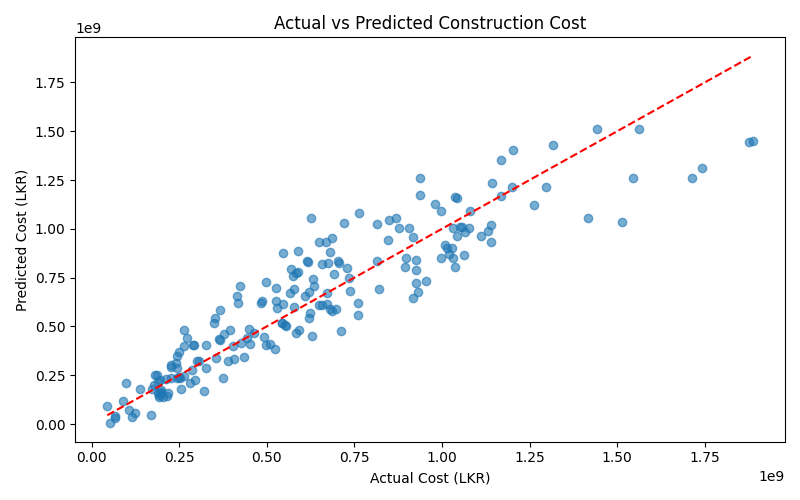
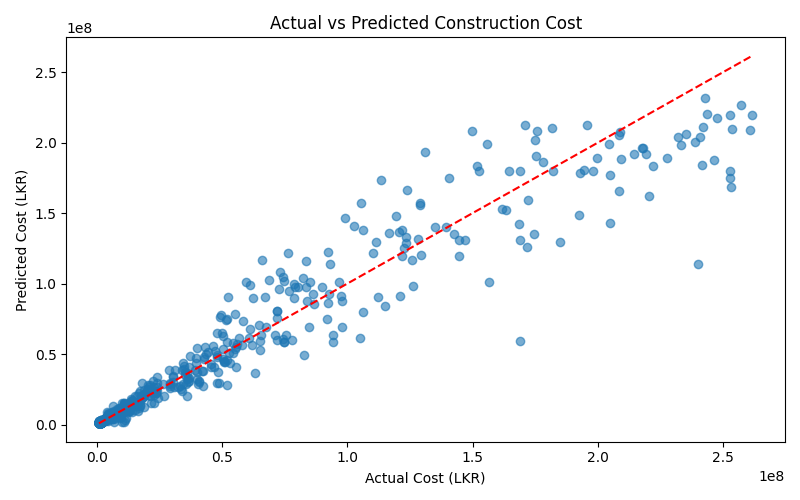
update the cross origin options

diff --git a/train_model.py b/train_model.py
@@ -2,129 +2,134 @@ import pandas as pd
 import numpy as np
 import matplotlib.pyplot as plt
 import seaborn as sns
+from pathlib import Path
 
-# Load your dataset (CSV, Excel, or DB export)
-df = pd.read_csv("construction_data.csv")
+DATASET_CANDIDATES = [
+    Path('construction_data_balanced_v2.csv'),
+    Path('construction_data_balanced.csv'),
+    Path('construction_data_augmented.csv'),
+    Path('construction_data.csv'),
+]
 
-# Explore
-print(df.shape)         # Rows and columns
-print(df.head())        # First 5 rows
-print(df.info())        # Data types
-print(df.describe())    # Statistical summary
-print(df.isnull().sum()) # Check for missing values
+dataset_path = next((candidate for candidate in DATASET_CANDIDATES if candidate.exists()), None)
+if dataset_path is None:
+    raise FileNotFoundError('No construction dataset file was found for training.')
 
-# Drop duplicates
+print(f'Using dataset: {dataset_path.name}')
+df = pd.read_csv(dataset_path)
+
+print(df.shape)
+print(df.head())
+print(df.info())
+print(df.describe())
+print(df.isnull().sum())
+
 df.drop_duplicates(inplace=True)
 
 df['total_area_sqft'] = df['total_area_sqft'].fillna(df['total_area_sqft'].median())
 df['project_type'] = df['project_type'].fillna(df['project_type'].mode()[0])
 
-# Remove outliers using IQR method
 Q1 = df['total_cost'].quantile(0.25)
 Q3 = df['total_cost'].quantile(0.75)
 IQR = Q3 - Q1
-df = df[(df['total_cost'] >= Q1 - 1.5*IQR) & (df['total_cost'] <= Q3 + 1.5*IQR)]
+df = df[(df['total_cost'] >= Q1 - 1.5 * IQR) & (df['total_cost'] <= Q3 + 1.5 * IQR)]
 
-from sklearn.preprocessing import LabelEncoder, StandardScaler
 from sklearn.compose import ColumnTransformer
 from sklearn.pipeline import Pipeline
-from sklearn.preprocessing import OneHotEncoder
+from sklearn.preprocessing import OneHotEncoder, StandardScaler
 
-# Define feature columns
 categorical_features = ['project_type', 'location_zone', 'material_grade', 'soil_type']
-numerical_features = ['total_area_sqft', 'num_floors', 'labor_cost_per_day',
-                      'project_duration_days', 'num_workers']
+numerical_features = [
+    'total_area_sqft',
+    'num_floors',
+    'labor_cost_per_day',
+    'project_duration_days',
+    'num_workers',
+]
 
-# Build preprocessing pipeline
 preprocessor = ColumnTransformer(transformers=[
     ('num', StandardScaler(), numerical_features),
-    ('cat', OneHotEncoder(handle_unknown='ignore'), categorical_features)
+    ('cat', OneHotEncoder(handle_unknown='ignore'), categorical_features),
 ])
 
-from sklearn.model_selection import train_test_split
+from sklearn.model_selection import GridSearchCV, train_test_split
 
-X = df.drop('total_cost', axis=1)   # Features
-y = df['total_cost']                 # Target (cost to predict)
+X = df.drop('total_cost', axis=1)
+y = df['total_cost']
 
 X_train, X_test, y_train, y_test = train_test_split(
     X, y, test_size=0.2, random_state=42
 )
 
-print(f"Training samples: {X_train.shape[0]}")
-print(f"Testing samples:  {X_test.shape[0]}")
+print(f'Training samples: {X_train.shape[0]}')
+print(f'Testing samples:  {X_test.shape[0]}')
 
+from sklearn.ensemble import GradientBoostingRegressor, RandomForestRegressor
 from sklearn.linear_model import LinearRegression
-from sklearn.ensemble import RandomForestRegressor, GradientBoostingRegressor
-from sklearn.metrics import mean_absolute_error, r2_score, mean_squared_error
-from sklearn.pipeline import Pipeline
+from sklearn.metrics import mean_absolute_error, mean_squared_error, r2_score
 
 models = {
-    "Linear Regression":       LinearRegression(),
-    "Random Forest":           RandomForestRegressor(n_estimators=100, random_state=42),
-    "Gradient Boosting":       GradientBoostingRegressor(n_estimators=100, random_state=42)
+    'Linear Regression': LinearRegression(),
+    'Random Forest': RandomForestRegressor(n_estimators=100, random_state=42),
+    'Gradient Boosting': GradientBoostingRegressor(n_estimators=100, random_state=42),
 }
 
-results = {}
-
 for name, model in models.items():
-    # Build full pipeline (preprocessing + model)
     pipeline = Pipeline(steps=[
         ('preprocessor', preprocessor),
-        ('model', model)
+        ('model', model),
     ])
-    
+
     pipeline.fit(X_train, y_train)
     y_pred = pipeline.predict(X_test)
-    
+
     mae = mean_absolute_error(y_test, y_pred)
-    r2  = r2_score(y_test, y_pred)
-    
-    results[name] = {"MAE": mae, "R2": r2, "pipeline": pipeline}
-    print(f"{name:25s} → MAE: ${mae:,.2f}  |  R²: {r2:.4f}")
+    r2 = r2_score(y_test, y_pred)
+    print(f'{name:25s} -> MAE: LKR {mae:,.2f} | R2: {r2:.4f}')
 
-    from sklearn.model_selection import GridSearchCV
-
-from sklearn.model_selection import GridSearchCV
-
-# ✅ Tune Gradient Boosting (best performer)
 param_grid = {
-    'model__n_estimators':    [100, 200],
-    'model__max_depth':       [3, 5, 7],
-    'model__learning_rate':   [0.05, 0.1, 0.2],
-    'model__min_samples_split': [2, 5]
+    'model__n_estimators': [100, 200],
+    'model__max_depth': [3, 5, 7],
+    'model__learning_rate': [0.05, 0.1, 0.2],
+    'model__min_samples_split': [2, 5],
 }
 
 best_pipeline = Pipeline(steps=[
     ('preprocessor', preprocessor),
-    ('model', GradientBoostingRegressor(random_state=42))  # ✅ Changed
+    ('model', GradientBoostingRegressor(random_state=42)),
 ])
 
-grid_search = GridSearchCV(best_pipeline, param_grid, cv=5,
-                           scoring='neg_mean_absolute_error', n_jobs=-1)
+grid_search = GridSearchCV(
+    best_pipeline,
+    param_grid,
+    cv=5,
+    scoring='neg_mean_absolute_error',
+    n_jobs=-1,
+)
 grid_search.fit(X_train, y_train)
 
-print("Best params:", grid_search.best_params_)
+print('Best params:', grid_search.best_params_)
 final_model = grid_search.best_estimator_
 
-# Evaluate
 y_pred_final = final_model.predict(X_test)
+y_pred_final = np.maximum(y_pred_final, 0)
 
-print(f"MAE  : LKR {mean_absolute_error(y_test, y_pred_final):,.2f}")
-print(f"RMSE : LKR {np.sqrt(mean_squared_error(y_test, y_pred_final)):,.2f}")
-print(f"R²   : {r2_score(y_test, y_pred_final):.4f}")
+print(f'MAE  : LKR {mean_absolute_error(y_test, y_pred_final):,.2f}')
+print(f'RMSE : LKR {np.sqrt(mean_squared_error(y_test, y_pred_final)):,.2f}')
+print(f'R2   : {r2_score(y_test, y_pred_final):.4f}')
 
-# Visualize predictions vs actuals
 plt.figure(figsize=(8, 5))
 plt.scatter(y_test, y_pred_final, alpha=0.6)
 plt.plot([y_test.min(), y_test.max()], [y_test.min(), y_test.max()], 'r--')
-plt.xlabel("Actual Cost (LKR)")
-plt.ylabel("Predicted Cost (LKR)")
-plt.title("Actual vs Predicted Construction Cost")
+plt.xlabel('Actual Cost (LKR)')
+plt.ylabel('Predicted Cost (LKR)')
+plt.title('Actual vs Predicted Construction Cost')
 plt.tight_layout()
-plt.savefig("cost_prediction_results.png")
-print("📊 Chart saved!")
+plt.savefig('cost_prediction_results.png')
+print('Chart saved!')
 
-# Save
 import joblib
-joblib.dump(final_model, "construction_cost_model.pkl")
-print("✅ Best model saved!")
+joblib.dump(final_model, 'construction_cost_model.pkl')
+print('Best model saved!')
+
+

diff --git a/api.py b/api.py
@@ -1,12 +1,25 @@
 from fastapi import FastAPI
+from fastapi.middleware.cors import CORSMiddleware
 from pydantic import BaseModel
 import joblib
 import pandas as pd
 
 app = FastAPI()
+
+app.add_middleware(
+    CORSMiddleware,
+    allow_origins=[
+        "http://localhost:3000",
+        "http://127.0.0.1:3000",
+    ],
+    allow_credentials=False,
+    allow_methods=["*"],
+    allow_headers=["*"],
+)
+
 model = joblib.load("construction_cost_model.pkl")
 
-# Define input structure
+
 class ProjectInput(BaseModel):
     project_type: str
     total_area_sqft: float
@@ -18,10 +31,12 @@ class ProjectInput(BaseModel):
     soil_type: str
     num_workers: int
 
+
 @app.post("/predict-cost")
 def predict_cost(data: ProjectInput):
-    df = pd.DataFrame([data.dict()])
+    df = pd.DataFrame([data.model_dump()])
     prediction = model.predict(df)[0]
+    prediction = max(float(prediction), 0.0)
     return {
         "estimated_cost_lkr": round(prediction, 2),
         "status": "success"